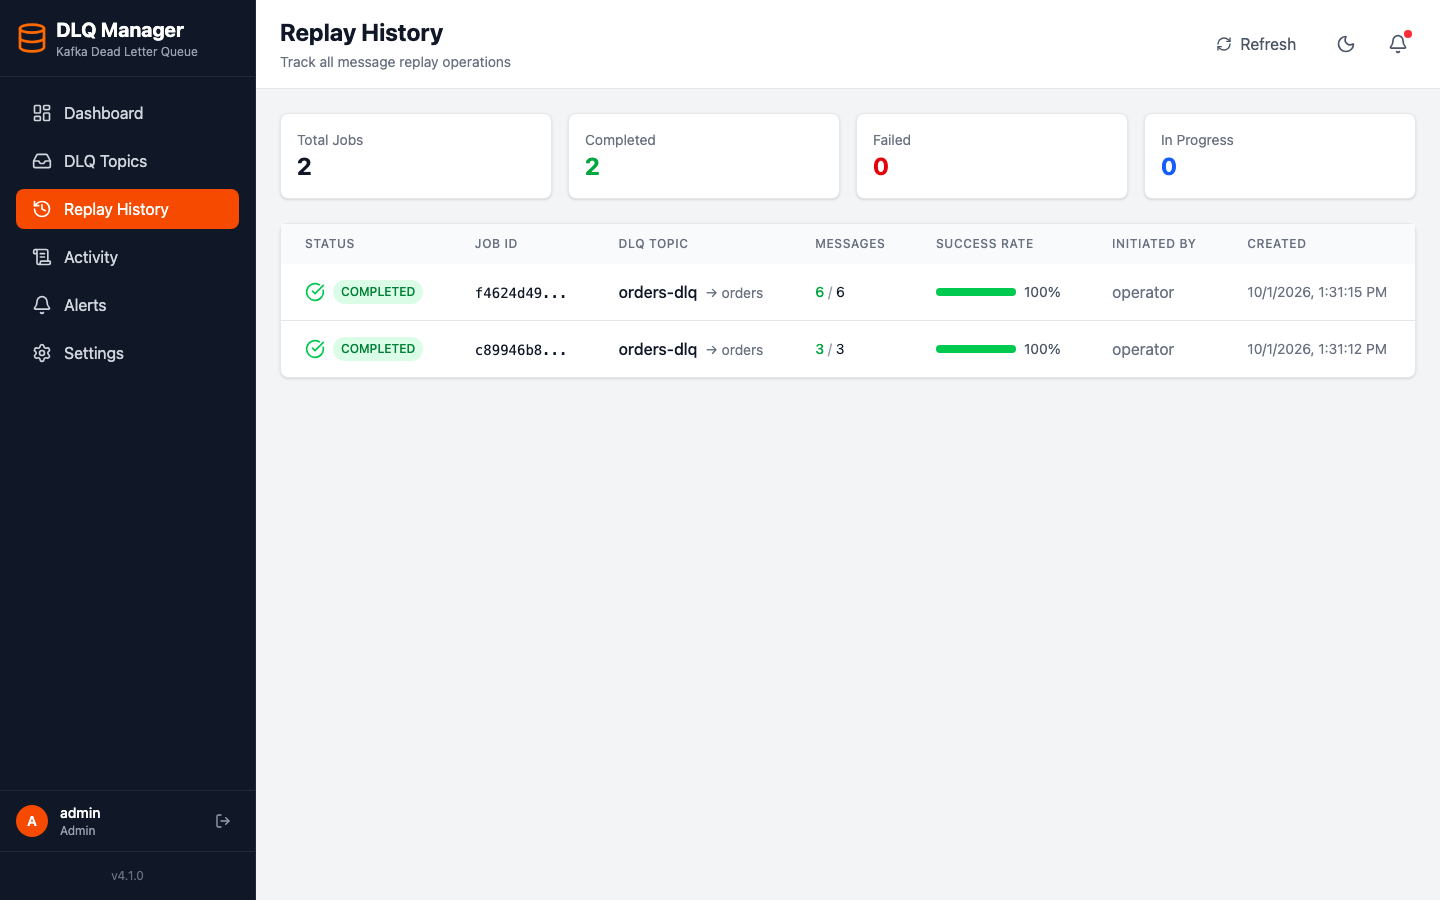
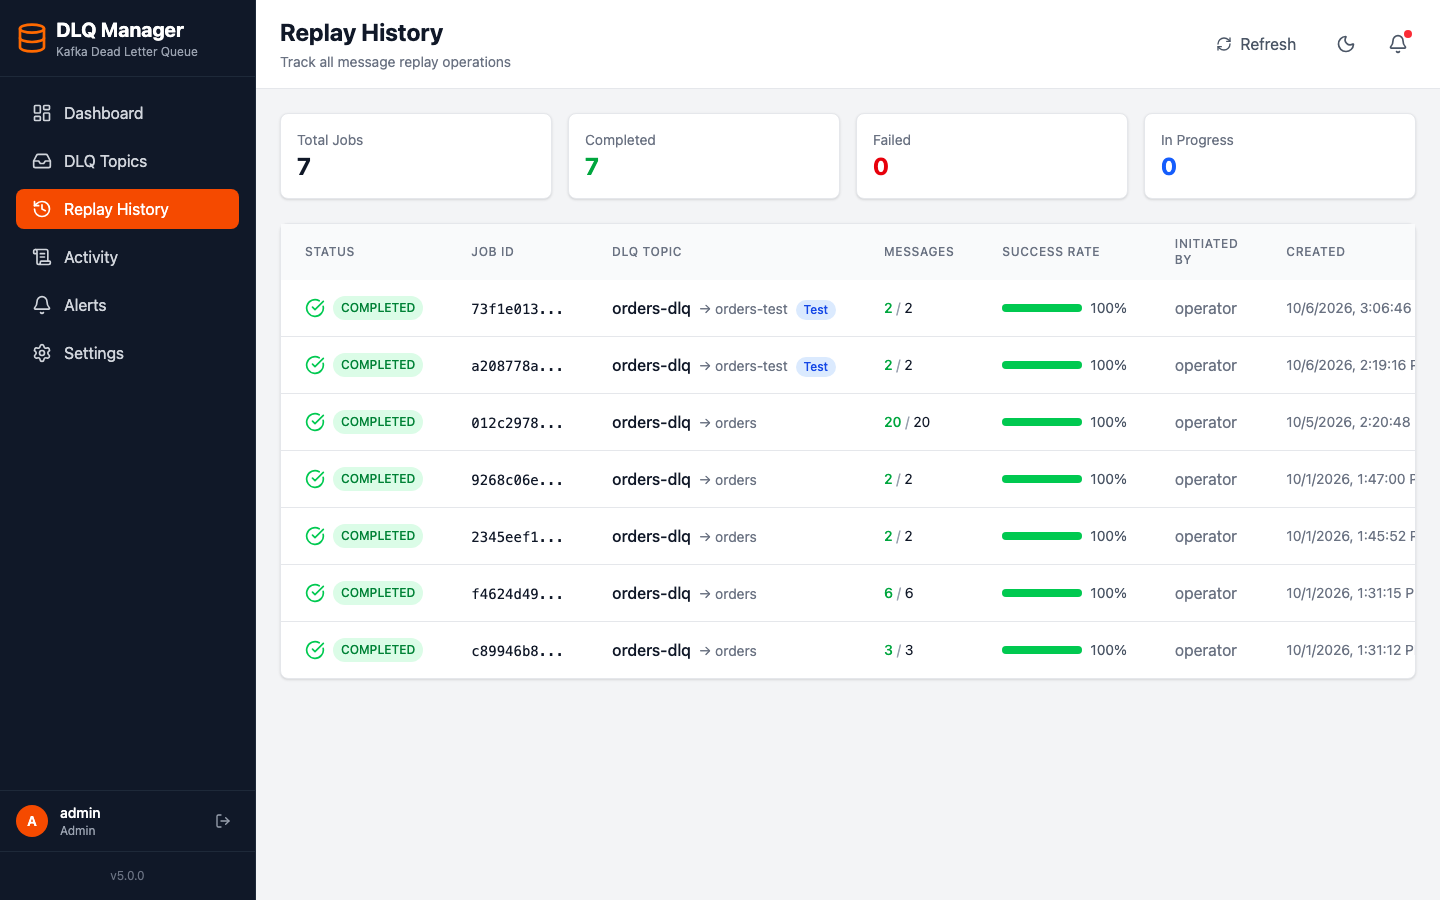
feat: choose where a replay goes, with a test replay button

diff --git a/frontend/src/pages/DlqTopicDetailPage.tsx b/frontend/src/pages/DlqTopicDetailPage.tsx
@@ -6,6 +6,7 @@ import { DlqTrendCard } from '../components/trend/DlqTrendCard';
 import { SourceConsumersCard } from '../components/consumers/SourceConsumersCard';
 import { replayWarning, useSourceConsumers } from '../hooks/useSourceConsumers';
 import { dlqTopicsApi } from '../api/dlqTopics';
+import { kafkaApi } from '../api/kafka';
 import { replayApi } from '../api/replay';
 import type { DlqMessage } from '../types';
 import { usePermissions } from '../context/AuthContext';
@@ -88,6 +89,14 @@ export function DlqTopicDetailPage() {
 
   // Who reads the source topic: checked before replaying, so nobody replays into a stopped service unawares
   const { data: sourceConsumers } = useSourceConsumers(id);
+
+  // Test replay: '' sends to the source topic (the real replay), anything else is a topic to try the messages on
+  const [sendTo, setSendTo] = useState('');
+  const { data: kafkaTopics = [] } = useQuery({
+    queryKey: ['kafkaTopics'],
+    queryFn: kafkaApi.getTopics,
+    enabled: canOperate,
+  });
 
   const { data: topic } = useQuery({
     queryKey: ['dlqTopic', id],
@@ -178,7 +187,10 @@ export function DlqTopicDetailPage() {
   const replayMutation = useMutation({
     mutationFn: replayApi.replayBulk,
     onSuccess: (data) => {
-      setSelectedMessages(new Set());
+      // After a test replay the same messages are still pending: keep them selected for the real one
+      if (!data.replayJob.testReplay) {
+        setSelectedMessages(new Set());
+      }
       refetch();
       queryClient.invalidateQueries({ queryKey: ['replayHistory'] });
       queryClient.invalidateQueries({ queryKey: ['sourceConsumers', id] });
@@ -224,7 +236,8 @@ export function DlqTopicDetailPage() {
       return { partition, offset };
     });
 
-    const warning = replayWarning(sourceConsumers, messages.length);
+    // The consumers of the source topic only matter when the messages actually go there
+    const warning = sendTo === '' ? replayWarning(sourceConsumers, messages.length) : null;
     if (warning && !window.confirm(`${warning}\n\nReplay anyway?`)) {
       return;
     }
@@ -233,6 +246,7 @@ export function DlqTopicDetailPage() {
       await replayMutation.mutateAsync({
         dlqTopicId: id,
         messages,
+        targetTopic: sendTo || undefined,
       });
     } catch {
       // Error is shown by the mutation's onError handler
@@ -479,13 +493,32 @@ export function DlqTopicDetailPage() {
                 <span className="text-sm text-gray-500 dark:text-gray-400">
                   {selectedMessages.size} selected
                 </span>
+                <label className="flex items-center gap-2 text-sm text-gray-500 dark:text-gray-400">
+                  Send to
+                  <select
+                    value={sendTo}
+                    onChange={(e) => setSendTo(e.target.value)}
+                    className="px-3 py-2 text-sm border border-gray-300 dark:border-gray-600 rounded-lg bg-white dark:bg-gray-700 text-gray-900 dark:text-white focus:ring-2 focus:ring-orange-500 focus:border-orange-500 max-w-64"
+                  >
+                    <option value="">{topic?.sourceTopic ?? 'source topic'} (source)</option>
+                    {kafkaTopics
+                      .map((kafkaTopic) => kafkaTopic.name)
+                      .filter((name) => name !== topic?.sourceTopic && name !== topic?.dlqTopicName)
+                      .map((name) => (
+                        <option key={name} value={name}>{name} (test)</option>
+                      ))}
+                  </select>
+                </label>
                 <button
                   onClick={handleReplaySelected}
                   disabled={replayMutation.isPending}
-                  className="flex items-center gap-2 px-4 py-2 bg-green-600 text-white rounded-lg hover:bg-green-700 transition-colors disabled:opacity-50"
+                  title={sendTo ? 'The messages are copied to this topic and stay pending here' : undefined}
+                  className={`flex items-center gap-2 px-4 py-2 text-white rounded-lg transition-colors disabled:opacity-50 ${
+                    sendTo ? 'bg-blue-600 hover:bg-blue-700' : 'bg-green-600 hover:bg-green-700'
+                  }`}
                 >
                   <Play className="w-4 h-4" />
-                  Replay Selected ({selectedMessages.size})
+                  {sendTo ? `Test replay (${selectedMessages.size})` : `Replay Selected (${selectedMessages.size})`}
                 </button>
               </>
             )}

diff --git a/frontend/src/pages/ReplayHistoryPage.tsx b/frontend/src/pages/ReplayHistoryPage.tsx
@@ -108,8 +108,16 @@ export function ReplayHistoryPage() {
                       </td>
                       <td className="px-6 py-4 whitespace-nowrap">
                         <span className="text-gray-900 dark:text-white font-medium">{job.dlqTopicName || '-'}</span>
-                        {job.sourceTopic && (
-                          <span className="text-gray-500 dark:text-gray-400 text-sm ml-2">→ {job.sourceTopic}</span>
+                        {(job.targetTopic || job.sourceTopic) && (
+                          <span className="text-gray-500 dark:text-gray-400 text-sm ml-2">→ {job.targetTopic || job.sourceTopic}</span>
+                        )}
+                        {job.testReplay && (
+                          <span
+                            title="Sent to another topic to try the messages out. They still count as pending."
+                            className="ml-2 inline-flex px-2 py-0.5 text-xs font-medium rounded-full bg-blue-100 text-blue-700 dark:bg-blue-900/40 dark:text-blue-300"
+                          >
+                            Test
+                          </span>
                         )}
                       </td>
                       <td className="px-6 py-4 whitespace-nowrap">

diff --git a/frontend/src/types/index.ts b/frontend/src/types/index.ts
@@ -100,6 +100,8 @@ export interface ReplayJob {
   dlqTopicId: string;
   dlqTopicName?: string;
   sourceTopic?: string;
+  targetTopic?: string;  // where the messages went: the source topic, or the topic of a test replay
+  testReplay?: boolean;  // true = sent to another topic to try them out; the messages stay pending
   initiatedBy: string;
   status: 'PENDING' | 'IN_PROGRESS' | 'COMPLETED' | 'FAILED' | 'PARTIALLY_COMPLETED';
   totalMessages: number;
@@ -122,6 +124,7 @@ export interface BulkReplayRequest {
   dlqTopicId: string;
   messages: { offset: number; partition: number }[];
   force?: boolean;
+  targetTopic?: string; // test replay: send here instead of the source topic
 }
 
 // Alert types

diff --git a/README.md b/README.md
@@ -29,7 +29,7 @@ This project started as a weekend experiment and has grown into a full platform 
 
 - **Browse** failed messages across all your DLQ topics, paginated — search them, filter by error type or by when they failed, or click a period on the trend chart to list its messages
 - **Analyze** error patterns with a per-topic error breakdown, and see whether a DLQ is growing or shrinking on a 24-hour / 7-day trend chart
-- **Replay** single or bulk messages back to the source topic, and see first whether the services reading that topic are running and keeping up (consumer lag) — with a warning before replaying into one that isn't
+- **Replay** single or bulk messages back to the source topic, and see first whether the services reading that topic are running and keeping up (consumer lag) — with a warning before replaying into one that isn't. A **test replay** sends them to another topic first; those messages stay pending until the real replay
 - **Track** every replay operation with a full audit trail
 - **Configure** Kafka connections from the UI — no restart needed, including clusters that need a login and encryption (SASL + TLS)
 - **Alert** when a DLQ crosses a threshold, with Slack notifications
@@ -228,6 +228,7 @@ CI runs the full backend suite plus frontend lint and build on every push.
 ![Trend over 7 days (Dark)](assets/34-dark-topic-trend.png)
 ![Where replays go: consumers of the source topic and their lag](assets/35-source-consumers.png)
 ![Messages from one hour, picked by clicking the trend chart](assets/36-time-filter.png)
+![Test replay: two messages sent to a test topic, still pending](assets/37-test-replay.png)
 ![Filtered by error type, replayed messages hidden](assets/27-search-filter.png)
 ![Message Detail](assets/05-message-detail-modal.png)
 ![Message Browser Dark](assets/31-dark-topic-detail.png)
@@ -305,7 +306,7 @@ All other endpoints need a session (the web UI) or HTTP Basic credentials (scrip
 | Method | Endpoint | Description |
 |--------|----------|-------------|
 | `POST` | `/api/replay/single` | Replay single message |
-| `POST` | `/api/replay/bulk` | Replay multiple messages |
+| `POST` | `/api/replay/bulk` | Replay multiple messages (`targetTopic` = test replay to that topic) |
 | `GET` | `/api/replay/history` | All replay jobs |
 
 ### Kafka & Configuration

diff --git a/TODO.md b/TODO.md
@@ -63,7 +63,7 @@
 ### Replay Enhancements
 - [ ] Scheduled replays
 - [ ] Replay to a different topic
-- [ ] Dry-run mode (validate without sending)
+- [x] Test replay: send messages to another topic to try them out; they stay pending until the real replay
 
 ### Analytics
 - [x] Trend chart per DLQ: pending messages and new failures over the last 24 hours or 7 days
